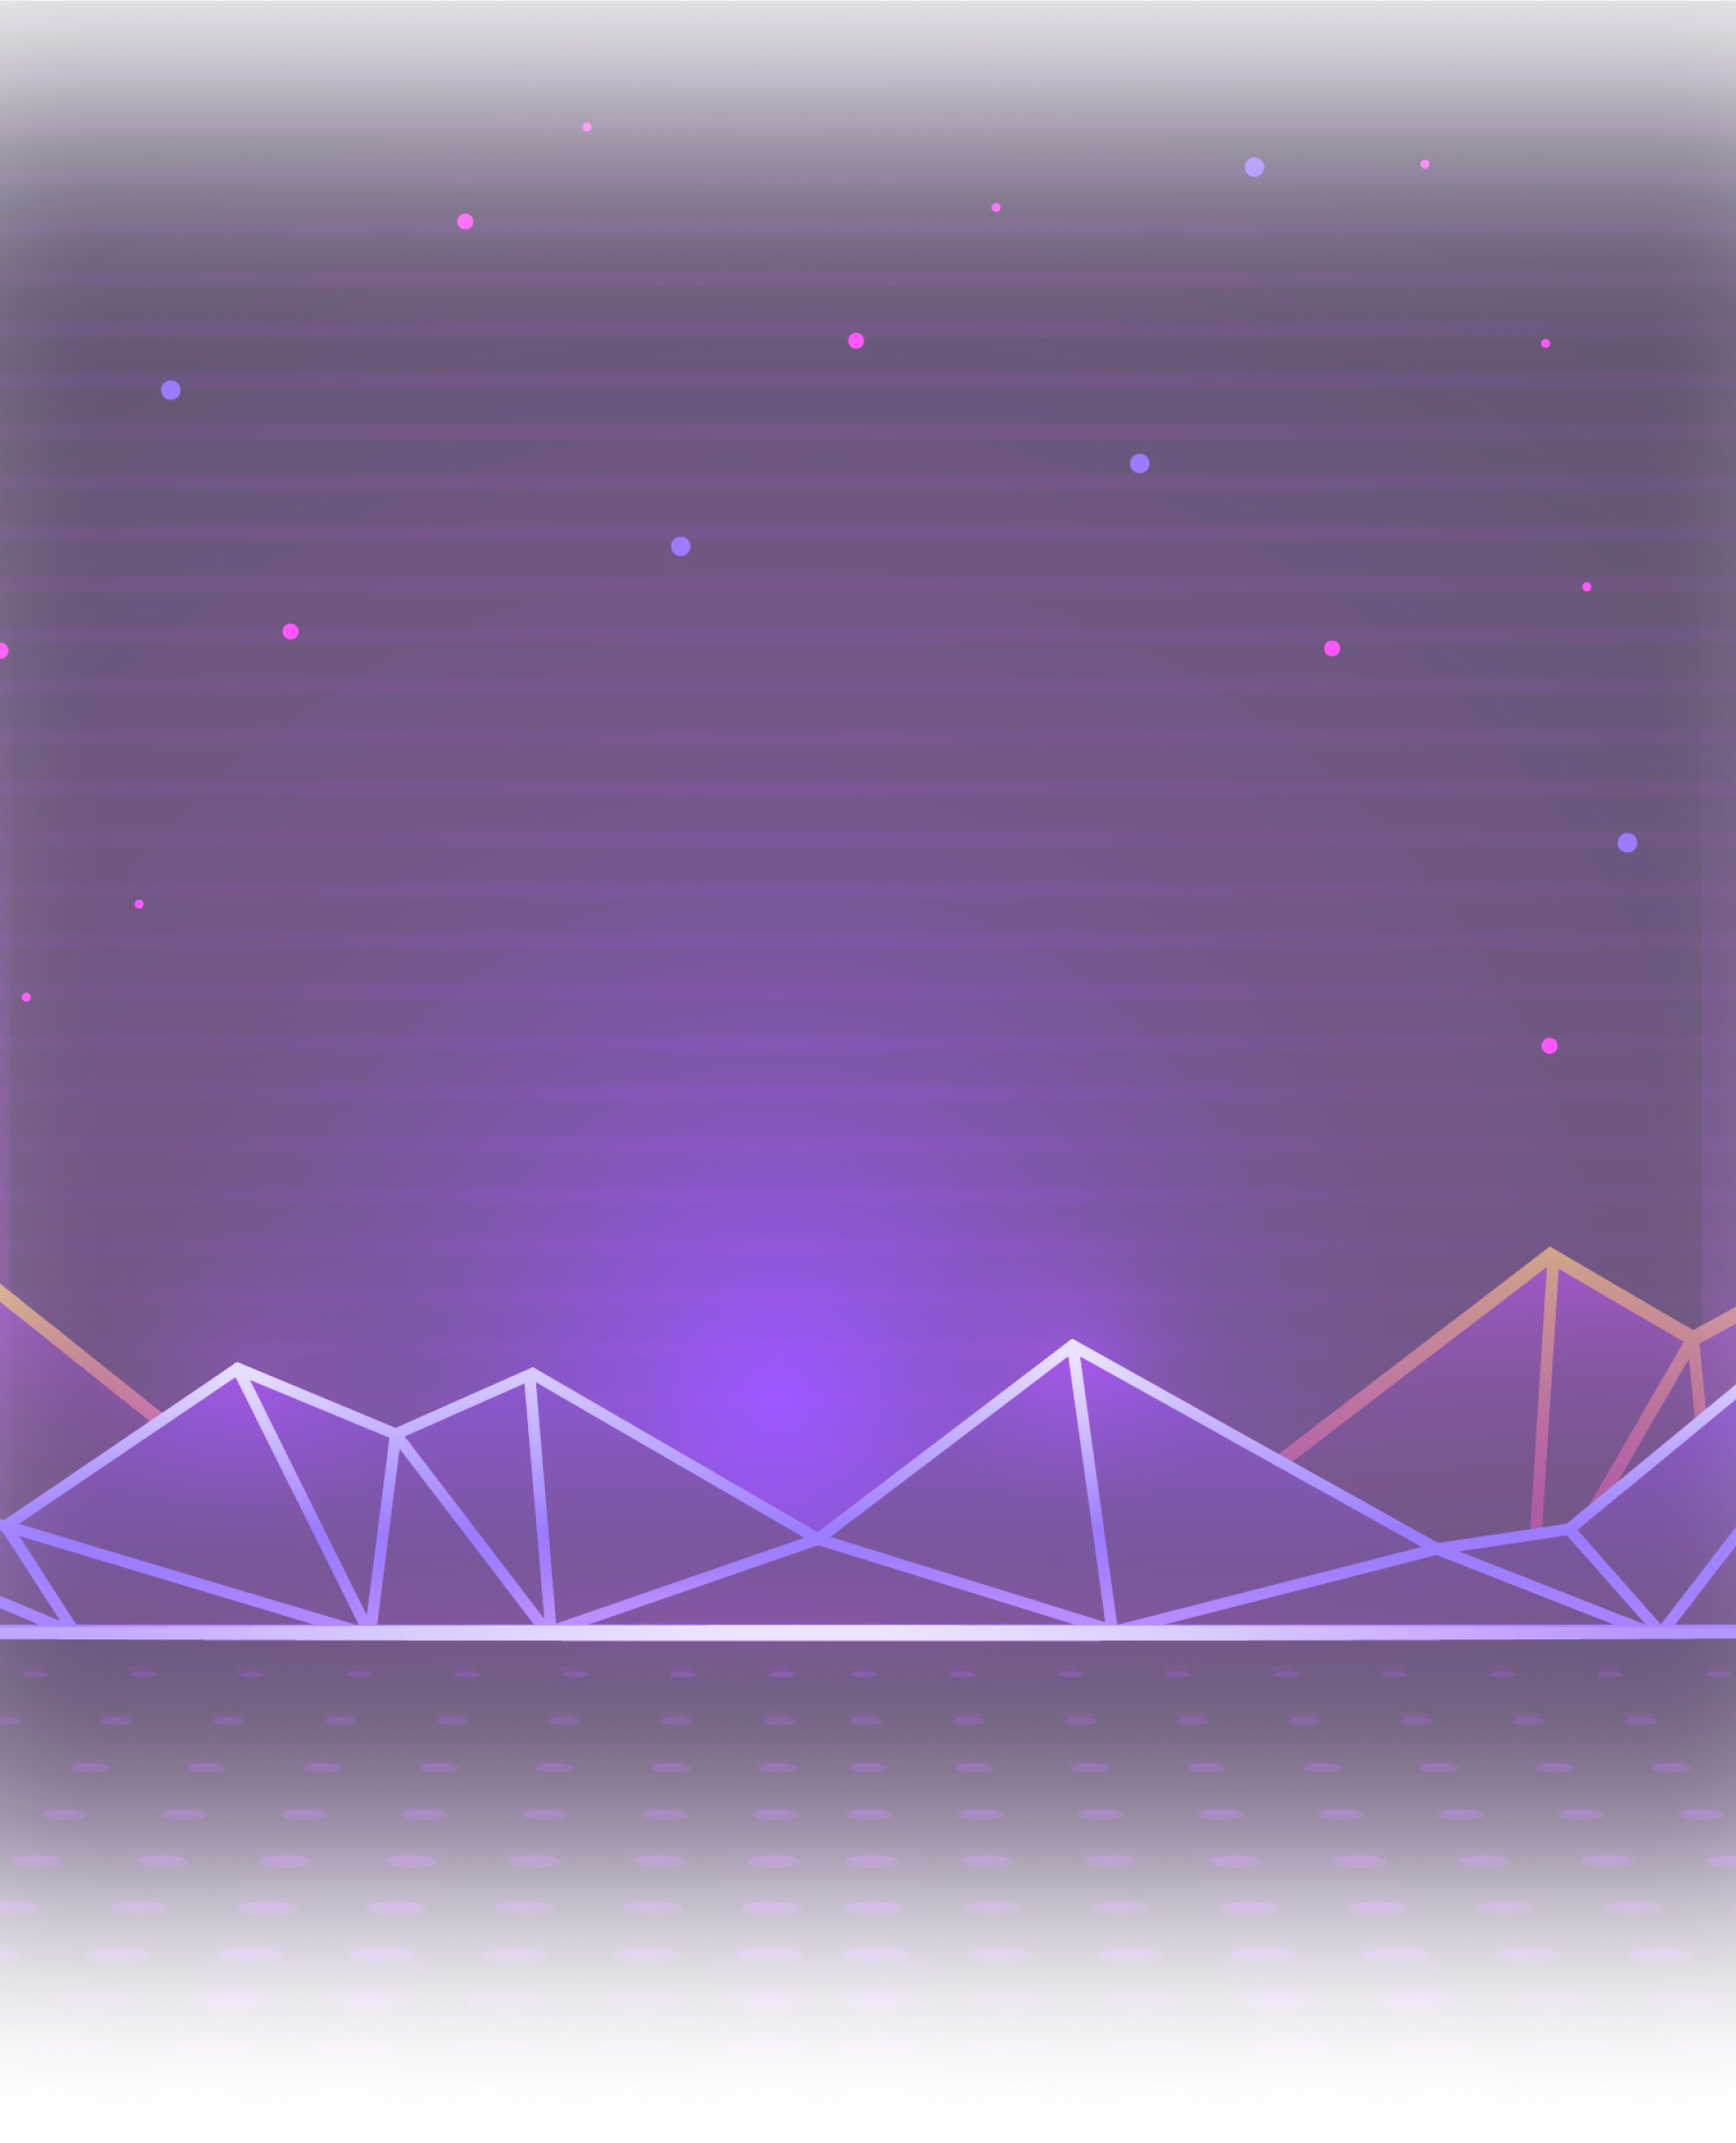
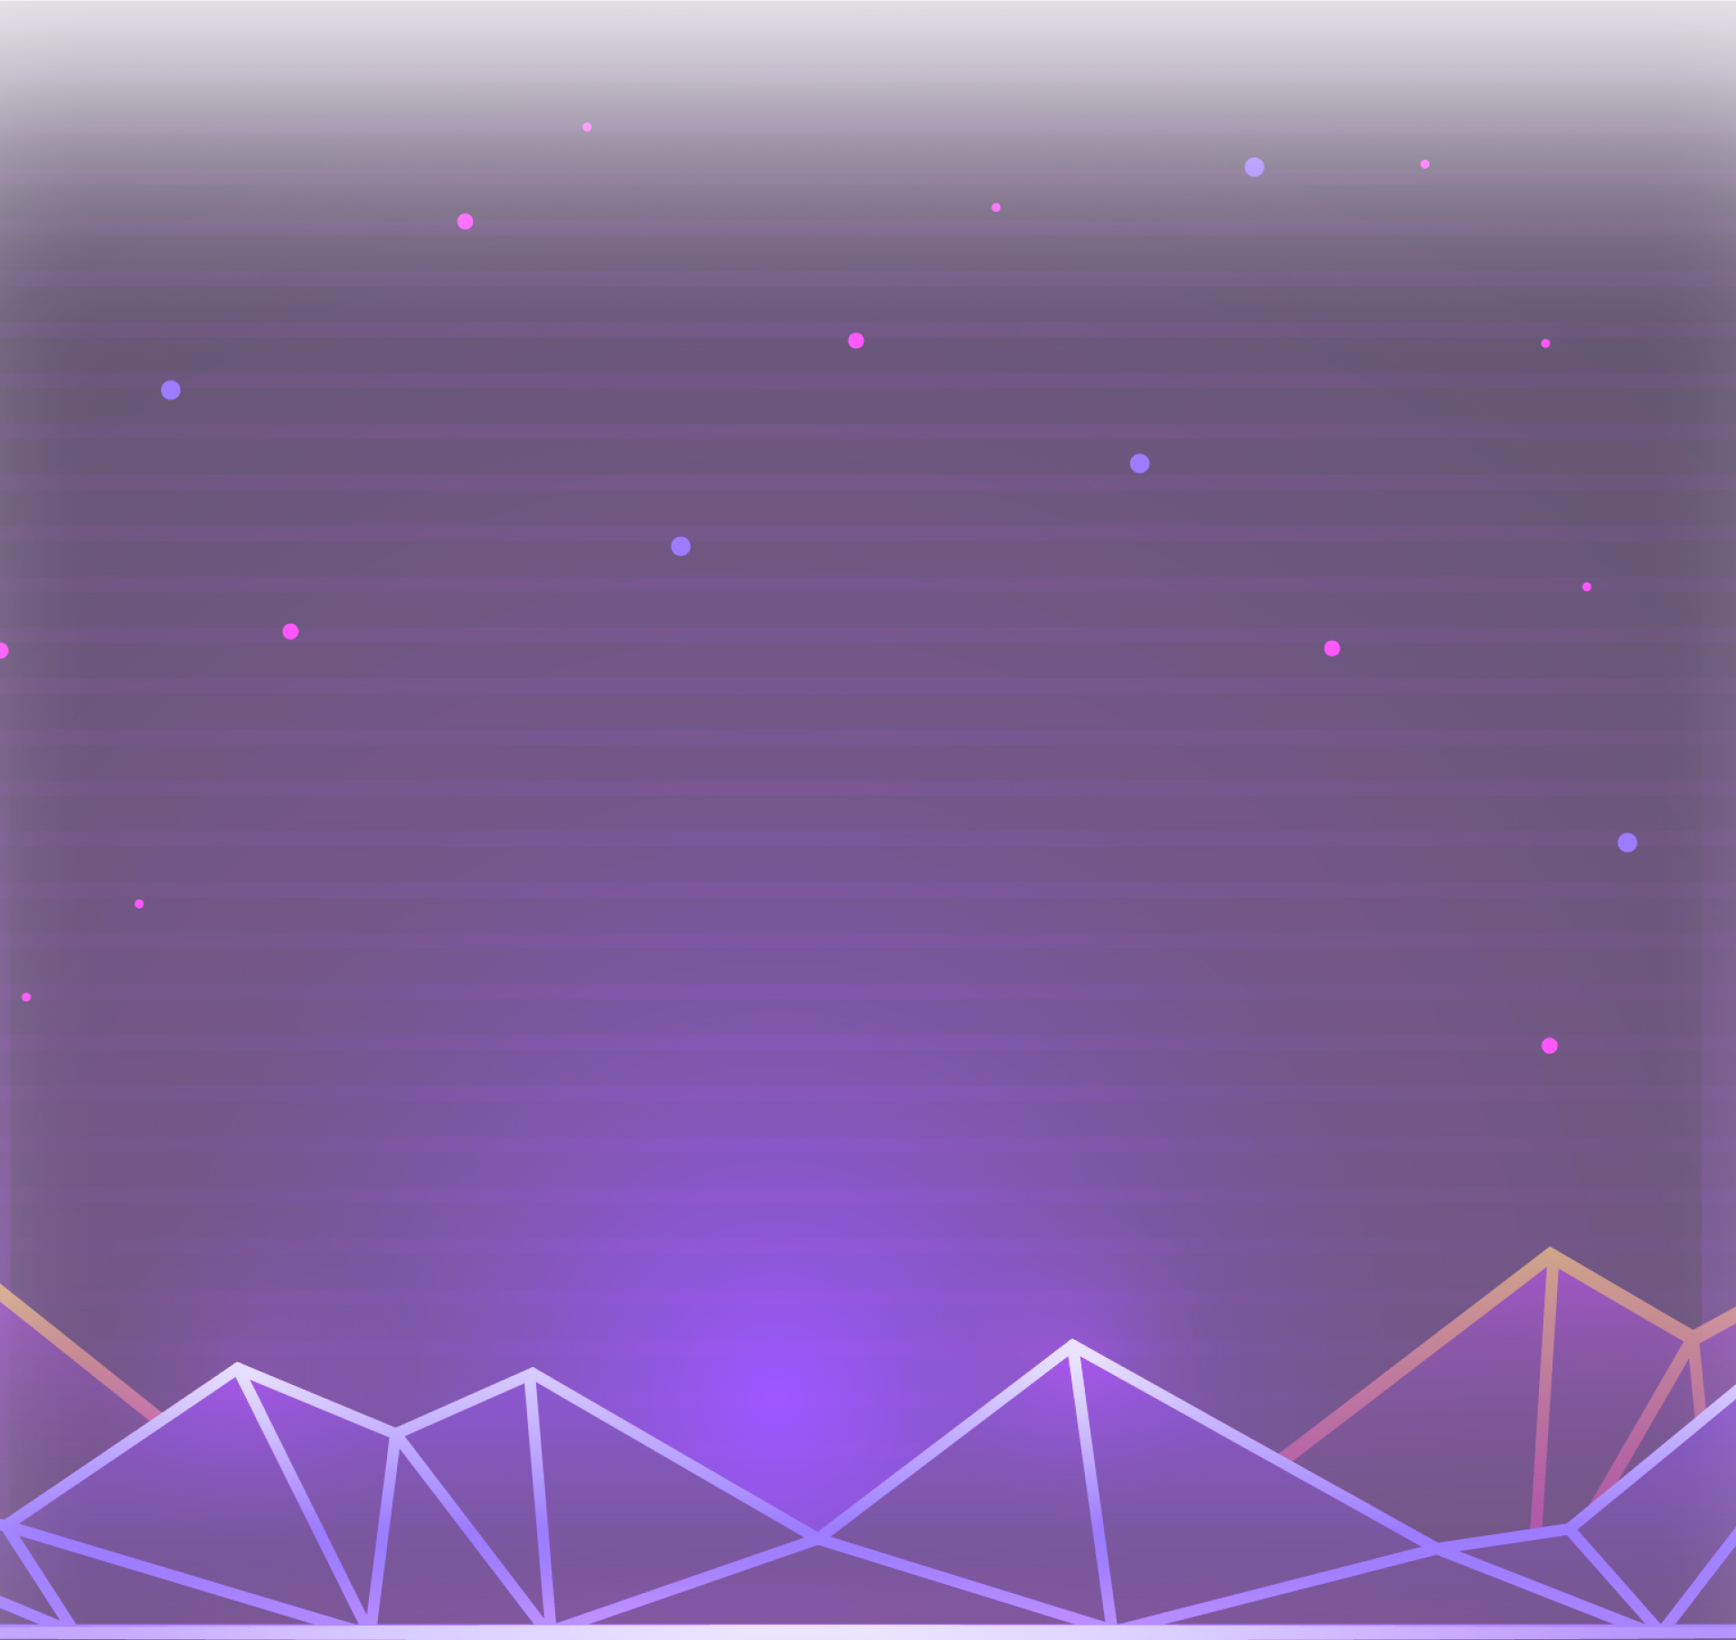
Desktop Version Completed

diff --git a/styles/globals.scss b/styles/globals.scss
@@ -323,7 +323,7 @@ nav {
   background-size: cover;
   background-position: top;
   position: relative;
-  padding-bottom: 1050px;
+  padding-bottom: 380px;
   .heading {
     margin-bottom: 30px;
   }
@@ -383,5 +383,140 @@ nav {
   }
   .roadmap-box {
     margin: 0px 25px;
+  }
+}
+
+.team {
+  background-image: url("/team-bg.png");
+  background-position: top;
+  background-size: cover;
+  padding-top: 160px;
+  padding-bottom: 80px;
+}
+.team-row {
+  max-width: 1437px;
+  margin: 0 auto;
+  display: flex;
+  justify-content: center;
+  margin-top: 50px;
+  .team-img {
+    margin: 0px 5px;
+  }
+}
+.team-btn {
+  text-align: center;
+  margin-top: 80px;
+  button {
+    background-color: #12fed9;
+    width: 276px;
+    height: 87px;
+    border-radius: 45px;
+    font-family: "Poppins", sans-serif;
+    font-style: normal;
+    font-weight: 600;
+    font-size: 25px;
+    color: #2d0067;
+    border: none;
+  }
+}
+
+.faq {
+  background-color: #2d0067;
+  padding-top: 50px;
+  .heading {
+    margin-bottom: 40px;
+  }
+  .line {
+    width: 72px;
+    height: 1px;
+    background-color: #f57c36;
+    margin: 0 auto;
+  }
+}
+.box {
+  height: 100px;
+  width: 200px;
+  background-color: crimson;
+}
+
+.accordion {
+  max-width: 1437px;
+  margin: 0 auto;
+  margin-top: 70px;
+  padding-bottom: 100px;
+}
+.ac-box {
+  position: relative;
+  margin-bottom: 10px;
+  z-index: 1;
+  .ac-layer {
+    content: "";
+    position: absolute;
+    background-color: #1b1b31;
+    top: 70px;
+    left: 0px;
+    height: 0px;
+    width: 100%;
+    z-index: -1;
+    transition: 0.5s;
+  }
+  .ac-layer-open {
+    height: 50px;
+  }
+}
+.ac-head {
+  background-color: #07071b;
+  border-radius: 25px;
+  display: flex;
+  justify-content: space-between;
+  align-items: center;
+  padding: 35px 40px;
+  cursor: pointer;
+  h2 {
+    font-family: "Poppins", sans-serif;
+    font-weight: 600;
+    font-size: 25px;
+    color: white;
+    margin: 0;
+  }
+  img {
+    transition: 1s;
+  }
+  .img-rotate {
+    transform: rotate(90deg);
+  }
+}
+.ac-body {
+  background-color: #1b1b31;
+  border-radius: 0px 0px 25px 25px;
+  padding: 0px 40px;
+  position: relative;
+  overflow: hidden;
+  height: 0;
+  transition: 0.5s;
+  p {
+    color: #d6d6d6;
+    font-size: 19px;
+    line-height: 32px;
+    margin: 0;
+  }
+}
+.ac-body-open {
+  height: auto;
+  padding: 35px 40px;
+}
+
+footer {
+  padding-top: 50px;
+  height: 544px;
+  background-image: url("/footer.png");
+  background-position: bottom;
+  background-size: cover;
+  p {
+    font-family: "Roboto", sans-serif;
+    font-weight: 300;
+    font-size: 20px;
+    color: white;
+    text-align: center;
   }
 }

diff --git a/data/acData.js b/data/acData.js
@@ -1,0 +1,22 @@
+export const acData = [
+  {
+    id: 1,
+    ques: "What is LifeToken?",
+    ans: "Lorem Ipsum has been the industry's standard dummy text ever since the 1500s, when an unknown printer took a galley of type and scrambled it to make a type specimen book. Lorem Ipsum has been the industry's standard dummy text ever since the 1500s, when an unknown printer took a galley of type and scrambled it to make a type specimen book.",
+  },
+  {
+    id: 2,
+    ques: "Price prediction for the future?",
+    ans: "Lorem Ipsum has been the industry's standard dummy text ever since the 1500s, when an unknown printer took a galley of type and scrambled it to make a type specimen book. Lorem Ipsum has been the industry's standard dummy text ever since the 1500s, when an unknown printer took a galley of type and scrambled it to make a type specimen book.",
+  },
+  {
+    id: 3,
+    ques: "What is the contract address for Life Token?",
+    ans: "Lorem Ipsum has been the industry's standard dummy text ever since the 1500s, when an unknown printer took a galley of type and scrambled it to make a type specimen book. Lorem Ipsum has been the industry's standard dummy text ever since the 1500s, when an unknown printer took a galley of type and scrambled it to make a type specimen book.",
+  },
+  {
+    id: 4,
+    ques: "Are the charity donations transparent?",
+    ans: "Lorem Ipsum has been the industry's standard dummy text ever since the 1500s, when an unknown printer took a galley of type and scrambled it to make a type specimen book. Lorem Ipsum has been the industry's standard dummy text ever since the 1500s, when an unknown printer took a galley of type and scrambled it to make a type specimen book.",
+  },
+];

diff --git a/components/faq.jsx b/components/faq.jsx
@@ -1,0 +1,42 @@
+import { useState } from "react";
+import { acData } from "../data/acData";
+const Faq = () => {
+  const [selected, setSelected] = useState(0);
+  const openAccordion = (index) => {
+    setSelected(index);
+  };
+  return (
+    <section className="faq">
+      <h2 className="heading">Frequently Asked Questions</h2>
+      <div className="line"></div>
+      <div className="accordion">
+        {acData.map((element, index) => (
+          <div className="ac-box" key={index}>
+            <div className="ac-head" onClick={() => openAccordion(index)}>
+              <h2>{element.ques}</h2>
+              <img
+                src="/arrow.png"
+                alt=""
+                className={selected === index ? "img-rotate" : null}
+              />
+            </div>
+            <div
+              className={
+                selected === index ? "ac-body ac-body-open" : "ac-body"
+              }
+            >
+              <p>{element.ans}</p>
+            </div>
+            <div
+              className={
+                selected === index ? "ac-layer ac-layer-open" : "ac-layer"
+              }
+            ></div>
+          </div>
+        ))}
+      </div>
+    </section>
+  );
+};
+
+export default Faq;

diff --git a/pages/index.js b/pages/index.js
@@ -1,8 +1,11 @@
 import Head from "next/head";
 import Banner from "../components/banner";
+import Faq from "../components/faq";
 import Feature from "../components/feature";
+import Footer from "../components/footer";
 import Navbar from "../components/navbar";
 import Roadmap from "../components/roadmap";
+import Team from "../components/team";
 export default function Home() {
   return (
     <div className="body-wrapper">
@@ -25,6 +28,9 @@ export default function Home() {
       <Banner />
       <Feature />
       <Roadmap />
+      <Team />
+      <Faq />
+      <Footer />
     </div>
   );
 }

diff --git a/components/team.jsx b/components/team.jsx
@@ -1,0 +1,21 @@
+import { teamData } from "../data/teamData";
+import Image from "next/image";
+const Team = () => {
+  return (
+    <section className="team">
+      <h2 className="heading">Team</h2>
+      <div className="team-row">
+        {teamData.map((element, index) => (
+          <div className="team-img" key={index}>
+            <Image src={element} alt="" />
+          </div>
+        ))}
+      </div>
+      <div className="team-btn">
+        <button>Show All</button>
+      </div>
+    </section>
+  );
+};
+
+export default Team;

diff --git a/data/teamData.js b/data/teamData.js
@@ -1,0 +1,8 @@
+import t1 from "../assets/img/team/t1.png";
+import t2 from "../assets/img/team/t2.png";
+import t3 from "../assets/img/team/t3.png";
+import t4 from "../assets/img/team/t4.png";
+import t5 from "../assets/img/team/t5.png";
+import t6 from "../assets/img/team/t6.png";
+
+export const teamData = [t1, t2, t3, t4, t5, t6];

diff --git a/components/footer.jsx b/components/footer.jsx
@@ -1,0 +1,9 @@
+const Footer = () => {
+  return (
+    <footer>
+      <p>© Copyright 2021</p>
+    </footer>
+  );
+};
+
+export default Footer;
